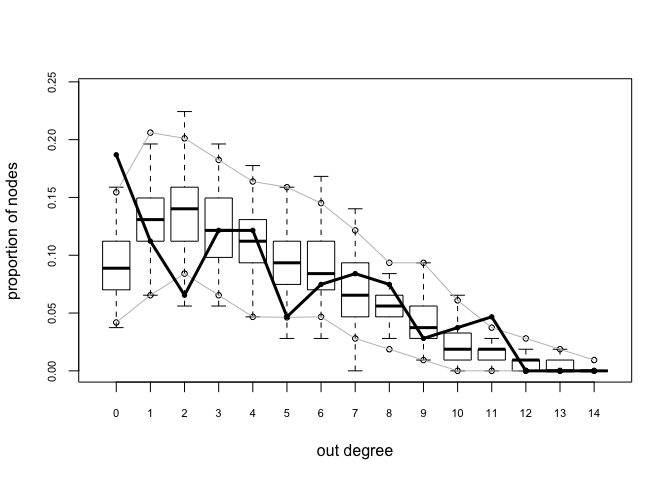
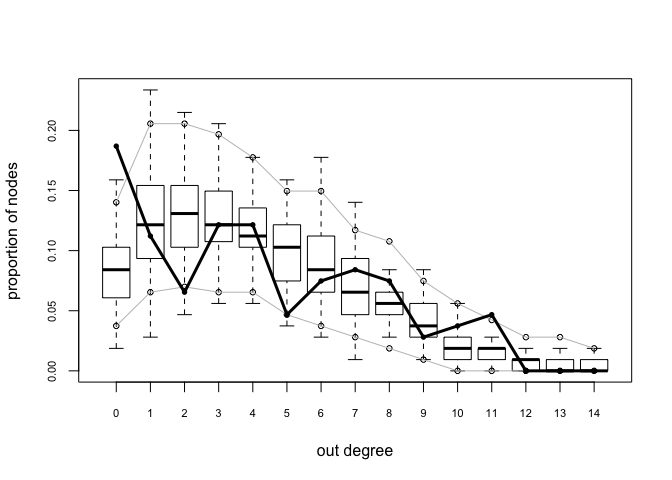
Trial research markdown

diff --git a/R/trial_research_sample.md b/R/trial_research_sample.md
@@ -9,9 +9,11 @@ My dissertation uses data that I cannot publicly share. So I will use a
 publicly available set to demonstrate this code. The `ergm` pack has a
 number of sample social networks. First, load the relevant libraries.
 
-I will use the “faux.desert.high” network, which approximates the
+I will use the `faux.desert.high` network, which approximates the
 structure the network used for my study. It is directed, has 107 nodes
-(compared to 84) and a density of 0.04 (compared to 0.07).
+(compared to 84) and a density of 0.04 (compared to 0.07). This is a
+simulated high school friendship network, using parameters estimated
+from real-life friendship networks in the AddHealth dataset.
 
 ``` r
 data("faux.desert.high")
@@ -56,7 +58,11 @@ summary(faux.desert.high, print.adj = FALSE)
     ## 
     ## No edge attributes
 
-Let’s take a quick look at the networks, using the [`ggraph`
+Not a particularly large high school, with only 107 students. The
+network in my study consisted of 84 professionals involved in providing
+learning professional learning opportunities to K-12 teachers.
+
+Let’s take a quick look at the network using the [`ggraph`
 package](https://github.com/thomasp85/ggraph). `ggraph` is rapidly
 becoming my go-to for network visualization. It’s clean, intuitive, and
 based on `ggplot2`.
@@ -72,14 +78,29 @@ ggraph(faux.desert.high) +
 
 ## Brokerage and model specification
 
-My study explores inter- and intra-organization brokering. For this
-network, I will use grade as the grouping variable for measuring
-brokerage. The measure of brokerage I use comes from Gould and
-Fernandez’s seminal 1989 paper in *Sociological Methododology*. The
-`brokerage` function yields several measures – I only want the raw
-brokerage scores. This score is a count of the number of times a node
-mediates between two otherwise unconnected
-nodes.
+My study explores inter- and intra-organization brokering. Put simply,
+brokering occurs when a individual has social connections to two other
+people who are not connected themselves. A whole line of research has
+theorized and docuements the benefits of occupying brokerage positions.
+For my study, I was interested in how influential individuals shared and
+gathered information.
+
+The measure of brokerage I use comes from Gould and Fernandez’s seminal
+1989 paper in *Sociological Methododology*. I use this method because it
+exploits group membership within a network to define brokering. Gould
+and Fernandez define five specific brokerage roles based on the group
+membership of the broker and the two other people they broker between.
+I’m not going to bother defining them here, but basically they come
+down to are you brokering between groups or within groups. The
+`brokerage` function from the `sna` package yields several measures – I
+only want the raw brokerage scores, stored in `raw.nil`. This score is a
+count of the number of times a node mediates between two otherwise
+unconnected nodes.
+
+For this network, I will use grade as the grouping variable for
+measuring brokerage. For my actual study, I used membership in an
+organizational
+sector.
 
 ``` r
 brkrg <- brokerage(faux.desert.high, faux.desert.high %v% "grade")$raw.nli
@@ -94,22 +115,30 @@ head(brkrg)
     ## 5   0   0    0    0   0  0
     ## 6   0   0    0    0   0  0
 
-I use an exponential random graph model of the network to form a
+This returns a matrix with six columns representing the five brokerage
+roles and a total column, which is a sum of the five other columns.
+
+I used an exponential random graph model of the network to form a
 baseline model. From this baseline model, I will simulate 1,000 networks
 that will form the distribution against which I will compared the
 observed values The model selection is iterative. Here are the
-parameters I use:  
-\- nodematch(“grade”). Based on homophily theory, I figure that ties are
-more likely to form within than between grades. I will allow for the
-possibility of differential homophily, as older grades may be less
-likely to show grade-level homophily  
-\- mutual. From balance theory, we know that friendship ties are usually
-reciprocated.  
-\- gwesp. A measure triadic closure. Friends of friends are often
-friends. The decay is iteratively choosen to improve model fit  
-\- gwdsp. A measure of triadic openness. This captures brokerage.
+parameters I use:
 
-This takes a while.
+  - nodematch(“grade”). Based on homophily theory, I figure that ties
+    are more likely to form within than between grades. I will allow for
+    the possibility of differential homophily, as older grades may be
+    less likely to show grade-level homophily  
+  - mutual. From balance theory, we know that friendship ties are
+    usually reciprocated.  
+  - gwesp. A measure triadic closure. Friends of friends are often
+    friends. The decay is iteratively choosen to improve model fit  
+  - gwdsp. A measure of triadic openness. This captures brokerage.
+
+The estimation of ergm parameters can take a while. For the actually
+study, I crank some of the MCMC tuning parameters to ensure good mixing
+and the locating of an adequate sample space. It takes a few hours to
+run on my MBA. Here, I use the default settings and it runs in a few
+minutes. Still, maybe get a drink or use the restroom.
 
 ``` r
 model <- ergm(faux.desert.high ~ edges + mutual + 
@@ -132,20 +161,20 @@ summary(model)
     ## Iterations:  2 out of 20 
     ## 
     ## Monte Carlo MLE Results:
-    ##                 Estimate Std. Error MCMC % p-value    
-    ## edges           -4.58307    0.17081      0 < 1e-04 ***
-    ## mutual           1.69788    0.19860      0 < 1e-04 ***
-    ## intransitive     0.03633    0.01668      0 0.02940 *  
-    ## gwesp.fixed.0.1  1.21791    0.10265      0 < 1e-04 ***
-    ## gwdsp.fixed.0.1 -0.08391    0.02726      0 0.00209 ** 
-    ## nodematch.grade  1.32409    0.11720      0 < 1e-04 ***
+    ##                 Estimate Std. Error MCMC %  p-value    
+    ## edges           -4.58411    0.16878      0  < 1e-04 ***
+    ## mutual           1.69007    0.20506      0  < 1e-04 ***
+    ## intransitive     0.04339    0.01389      0 0.001794 ** 
+    ## gwesp.fixed.0.1  1.21716    0.10308      0  < 1e-04 ***
+    ## gwdsp.fixed.0.1 -0.09157    0.02377      0 0.000118 ***
+    ## nodematch.grade  1.32449    0.11911      0  < 1e-04 ***
     ## ---
     ## Signif. codes:  0 '***' 0.001 '**' 0.01 '*' 0.05 '.' 0.1 ' ' 1
     ## 
     ##      Null Deviance: 15723  on 11342  degrees of freedom
-    ##  Residual Deviance:  2625  on 11336  degrees of freedom
+    ##  Residual Deviance:  2626  on 11336  degrees of freedom
     ##  
-    ## AIC: 2637    BIC: 2681    (Smaller is better.)
+    ## AIC: 2638    BIC: 2682    (Smaller is better.)
 
 After specifying and estimating the model, it is critical to assess its
 fit to the data and to diagnose any issues in the Markov Chain Monte
@@ -200,7 +229,7 @@ distribution.
 ecdf(model_tridist)(summary(faux.desert.high ~ triangle))
 ```
 
-    ## [1] 0.315
+    ## [1] 0.299
 
 Now I can proceed with the brokerage test. Here’s the basic process:
 
@@ -259,12 +288,12 @@ head(dist[[1]])
     ## # Groups:   grade [1]
     ##     w_I   w_O  b_IO  b_OI   b_O     t grade
     ##   <dbl> <dbl> <dbl> <dbl> <dbl> <dbl> <int>
-    ## 1 21.0      0  0    11.0   0    32.0      7
-    ## 2 32.0      0  0    29.0   0    61.0      7
-    ## 3 24.0      0  6.00  6.00  1.00 37.0      7
-    ## 4  1.00     0  3.00  2.00  1.00  7.00     7
-    ## 5 33.0      0  0    12.0   0    45.0      7
-    ## 6  6.00     0  0     5.00  0    11.0      7
+    ## 1 21.0   0     0    14.0   0    35.0      7
+    ## 2 71.0   0     0    11.0   0    82.0      7
+    ## 3  3.00  0     2.00  0     0     5.00     7
+    ## 4 24.0   1.00  5.00 25.0   2.00 57.0      7
+    ## 5  7.00  0     6.00  4.00  2.00 19.0      7
+    ## 6 27.0   0     0    10.0   0    37.0      7
 
 ``` r
 head(obs[[1]])
@@ -349,12 +378,12 @@ head(b_scores)
 ```
 
     ##   id Coordinator Consultant Representative Gatekeeper Liaison Total
-    ## 1  7       0.111          1          0.153      1.000   1.000 0.172
-    ## 2 12       0.210          1          0.169      1.000   1.000 0.266
-    ## 3 15       0.456          1          1.000      0.438   1.000 0.554
-    ## 4 19       0.728          1          0.585      0.438   0.367 0.683
-    ## 5 24       0.671          1          1.000      1.000   1.000 0.829
-    ## 6 34       0.286          1          0.116      0.494   1.000 0.238
+    ## 1  7       0.139          1          0.119      1.000   1.000 0.193
+    ## 2 12       0.236          1          0.128      1.000   1.000 0.282
+    ## 3 15       0.445          1          1.000      0.423   1.000 0.529
+    ## 4 19       0.685          1          0.551      0.423   0.355 0.650
+    ## 5 24       0.636          1          1.000      1.000   1.000 0.777
+    ## 6 34       0.295          1          0.089      0.468   1.000 0.256
 
 So those are all percentile ranks for each node’s brokerage score in
 each role. We have to choose an alpha as the cutoff for significance. I
@@ -439,7 +468,7 @@ brokers %>%
     ## # A tibble: 2 x 3
     ##   broker mean_range sd_range
     ##    <dbl>      <dbl>    <dbl>
-    ## 1   0         0.458    0.230
-    ## 2   1.00      0.568    0.239
+    ## 1   0         0.466    0.229
+    ## 2   1.00      0.526    0.271
 
 Indeed the brokers have greater mean range scores.
